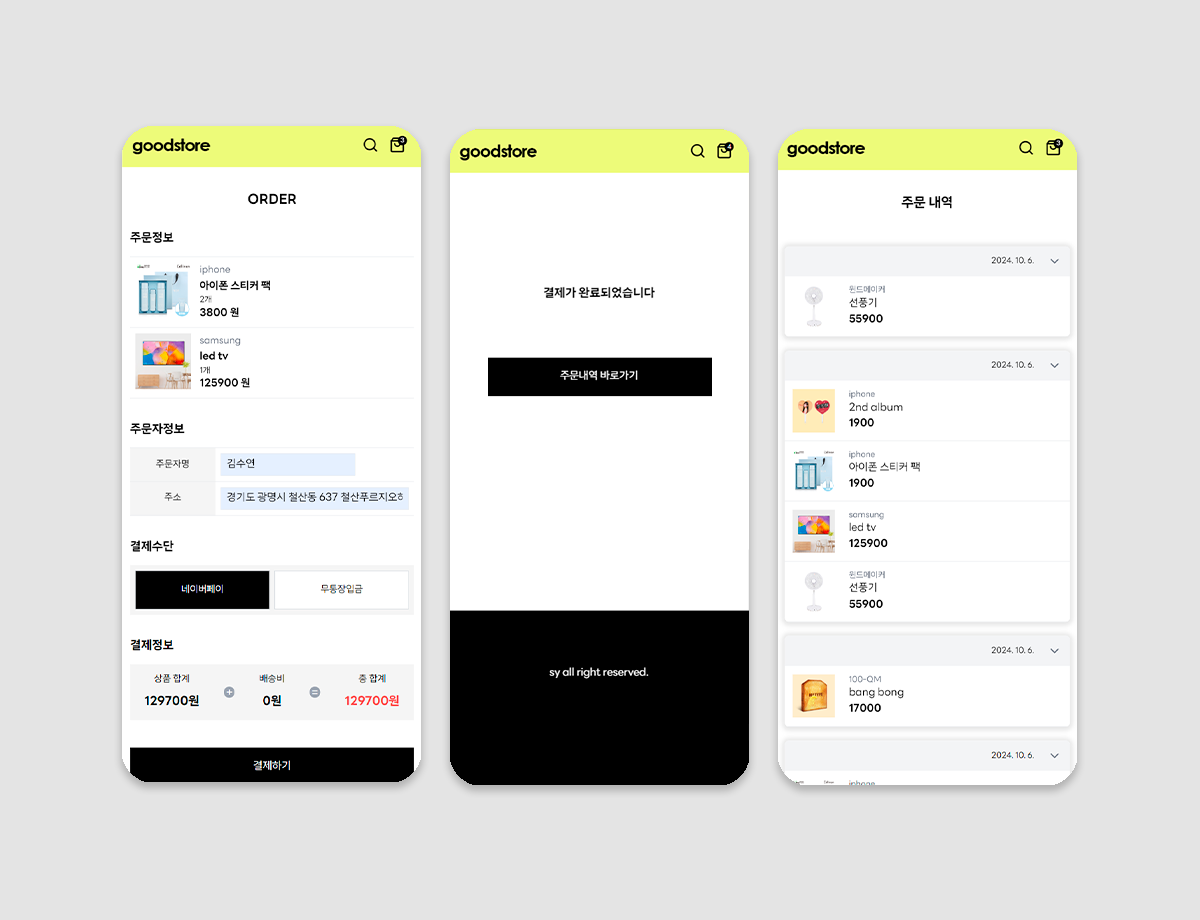
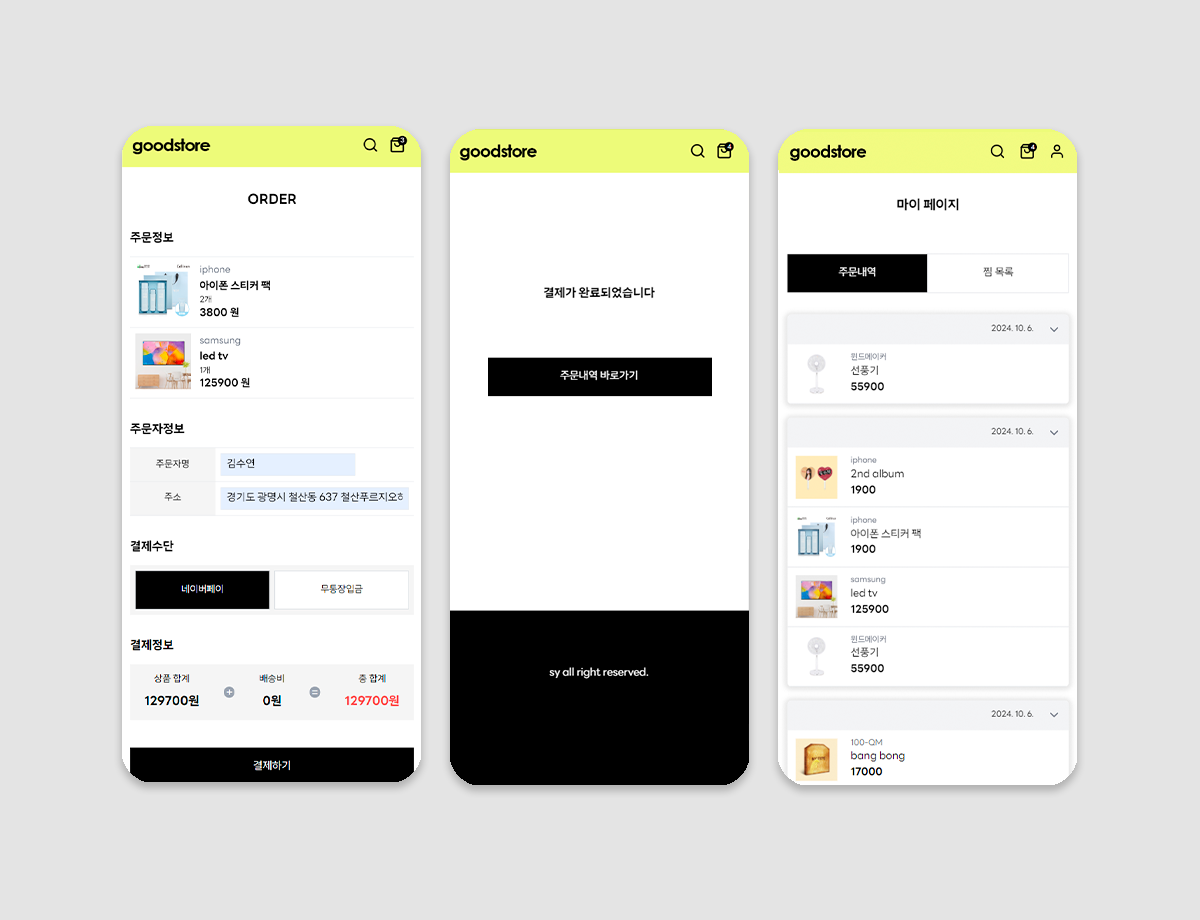
굿즈토어 찜기능 업데이트

diff --git a/src/data/ModalData.jsx b/src/data/ModalData.jsx
@@ -84,7 +84,7 @@ export const projectArray = [
     id: 9,
     title: "굿즈토어",
     content: "",
-    desc: "굿즈 쇼핑몰 앱입니다. 다양한 카테고리의 상품들을 json server 를 이용하여 불러오고, 카테고리별로 상품을 볼 수 있게 제작하였습니다. \r\n상세페이지에서는 해당 상품의 정보와 함께 수량을 조정할 수 있고 장바구니 버튼을 눌렀을 때 신규 상품이면 장바구니에 추가를, 이미 있는 상품이면 장바구니에 있는 상품의 갯수를 자동으로 올려주도록 제작하였습니다.\r\n장바구니 페이지에서는 수량 조절 및 삭제 또한 가능하며 주문한 내역을 확인할 수 있도록 구현하였습니다.",
+    desc: "굿즈 쇼핑몰 앱입니다. 다양한 카테고리의 상품들을 json server 를 이용하여 불러오고, 카테고리별로 상품을 볼 수 있게 제작하였습니다. \r\n상세페이지에서는 해당 상품의 정보와 함께 장바구니에 담는 기능을 포함해 검색, 찜 기능, 주문 조회를 하는 등 일반적인 쇼핑몰 기능을 구현하였습니다.",
     skills: "NEXT.JS, TAILWIND CSS, TYPESCRIPT",
     img: "/img/shopcode.png",
     url: "https://goodstore-lovat.vercel.app/",

diff --git a/src/component/Project.jsx b/src/component/Project.jsx
@@ -65,8 +65,8 @@ const Project = ({ title }) => {
               </li>
               <li>
                 goodstore - 간단한 굿즈 쇼핑몰 앱 입니다. 상품을 카테고리 별로
-                분류하고, 장바구니에 담고 주문 조회를 하는 등 일반적인 쇼핑몰
-                기능을 구현하였습니다.
+                분류하며 검색, 장바구니, 찜 기능, 주문 조회를 하는 등 일반적인
+                쇼핑몰 기능을 구현하였습니다.
               </li>
               <li>
                 mylog - vue3를 활용한 블로그 게시판 앱 입니다. 목록조회, 글
